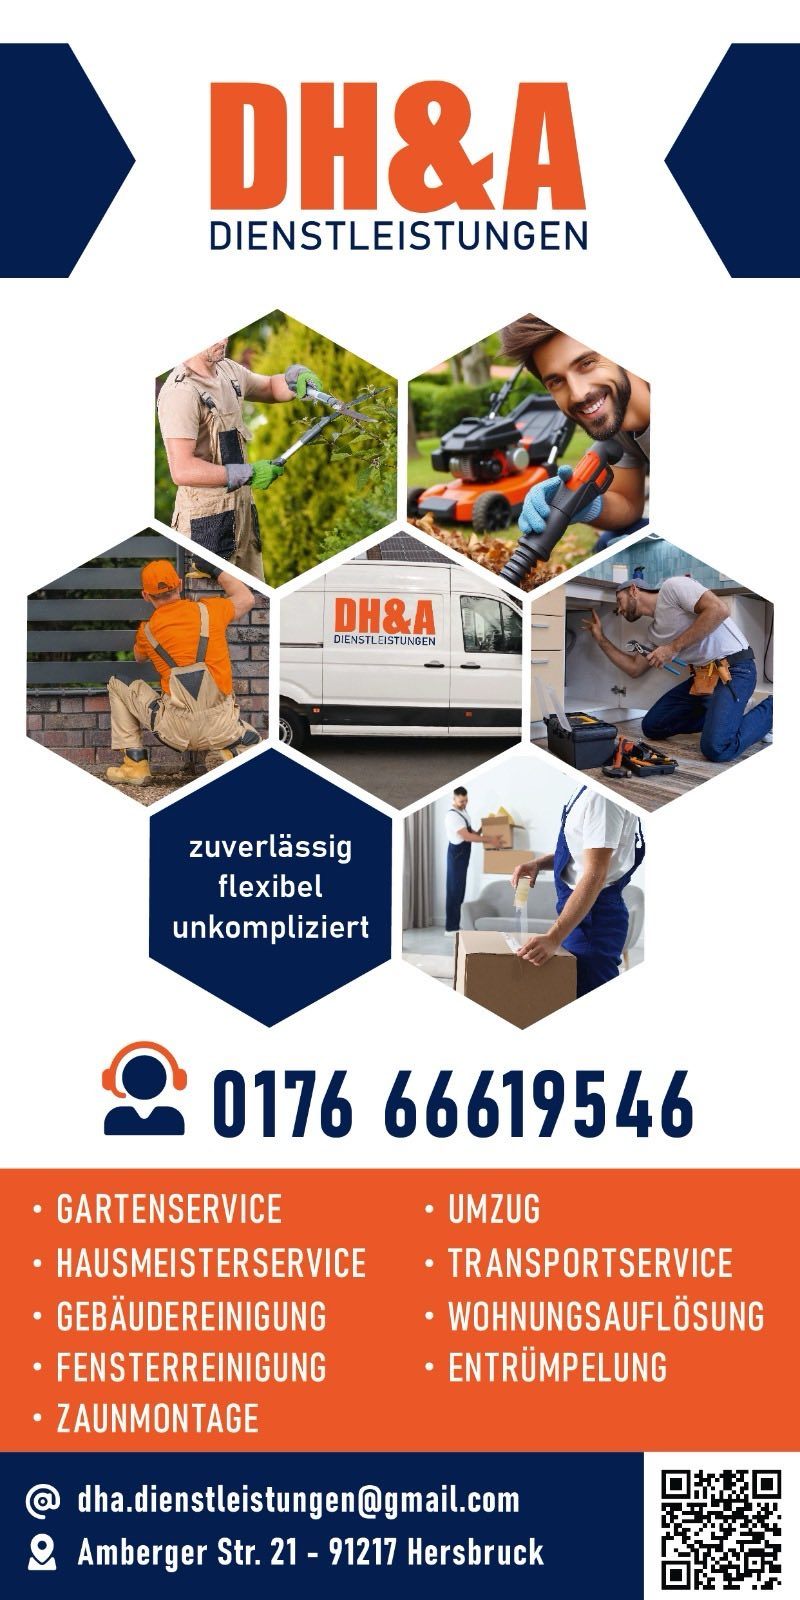
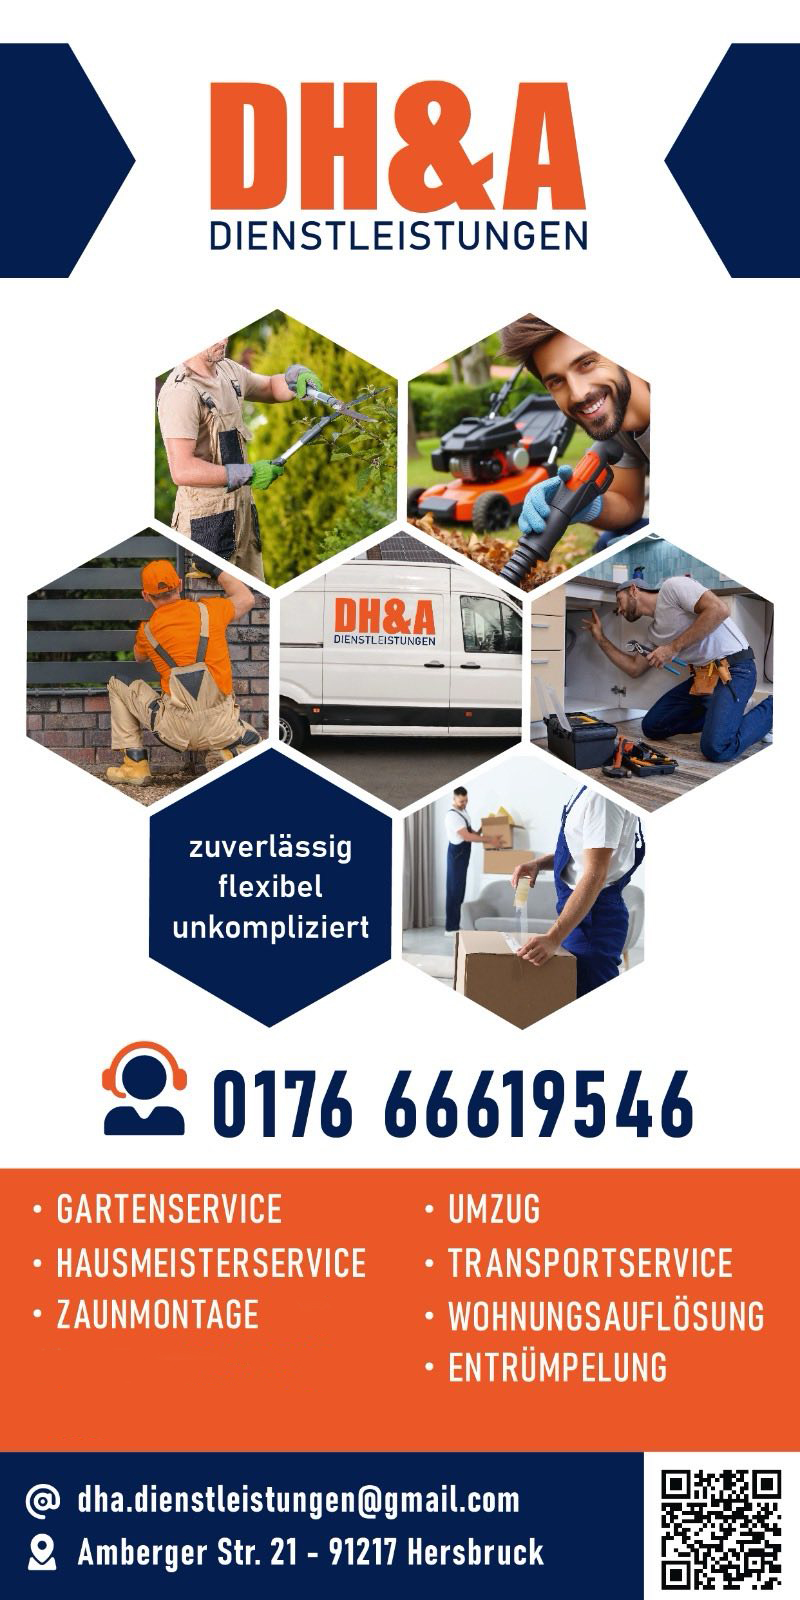
sx

Changed region(s): [[0.0625, 0.8125, 0.4062, 0.9062]]

diff --git a/index.html b/index.html
@@ -150,29 +150,6 @@
                             </div>
                         </div>
                     </div>
-                    <div class="col-lg-3 col-md-6 col-sm-12 wow bounceInUp" data-wow-delay="0.5s">
-                        <div class="bg-light rounded service-item">
-                            <div class="service-content d-flex align-items-center justify-content-center p-4">
-                                <div class="service-content-icon text-center">
-                                    <i class="fas fa-broom fa-7x text-primary mb-4"></i>
-                                    <h4 class="mb-3">Gebäudereinigung</h4>
-
-                                </div>
-                            </div>
-                        </div>
-                    </div>
-                    <div class="col-lg-3 col-md-6 col-sm-12 wow bounceInUp" data-wow-delay="0.7s">
-                        <div class="bg-light rounded service-item">
-                            <div class="service-content d-flex align-items-center justify-content-center p-4">
-                                <div class="service-content-icon text-center">
-                                    
-                                    <i class="fas fa-window-frame fa-7x text-primary mb-4"><img src="img/window.png"></i>
-                                    <h4 class="mb-3">Fensterreinigung</h4>
-
-                                </div>
-                            </div>
-                        </div>
-                    </div>
                     <div class="col-lg-3 col-md-6 col-sm-12 wow bounceInUp" data-wow-delay="0.1s">
                         <div class="bg-light rounded service-item">
                             <div class="service-content d-flex align-items-center justify-content-center p-4">
@@ -304,15 +281,15 @@
                                                 </div>
                                             </div>
                                         </div>
-                                        <div class="col-md-6 col-lg-3 wow bounceInUp" data-wow-delay="0.5s">
+                                        <!--<div class="col-md-6 col-lg-3 wow bounceInUp" data-wow-delay="0.5s">
                                             <div class="event-img position-relative">
-                                                <img class="img-fluid rounded w-100" src="img/event-7.jpg" alt="">
+                                                <img class="img-fluid rounded w-100" src="img/event-7.webp" alt="">
                                                 <div class="event-overlay d-flex flex-column p-4">
                                                   
-                                                    <a href="img/event-7.jpg" data-lightbox="event-7" class="my-auto"><i class="fas fa-search-plus text-dark fa-2x"></i></a>
+                                                    <a href="img/event-7.webp" data-lightbox="event-7" class="my-auto"><i class="fas fa-search-plus text-dark fa-2x"></i></a>
                                                 </div>
                                             </div>
-                                        </div>
+                                        </div> -->
                                         <div class="col-md-6 col-lg-3 wow bounceInUp" data-wow-delay="0.7s">
                                             <div class="event-img position-relative">
                                                 <img class="img-fluid rounded w-100" src="img/event-8.jpg" alt="">
